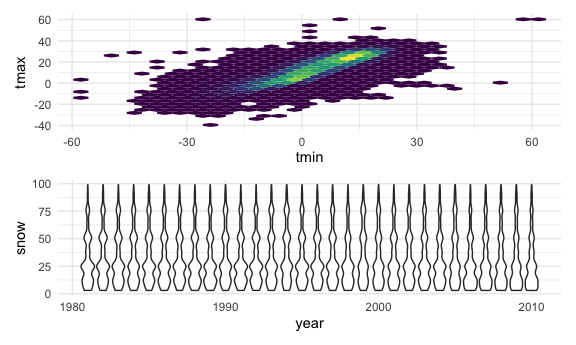
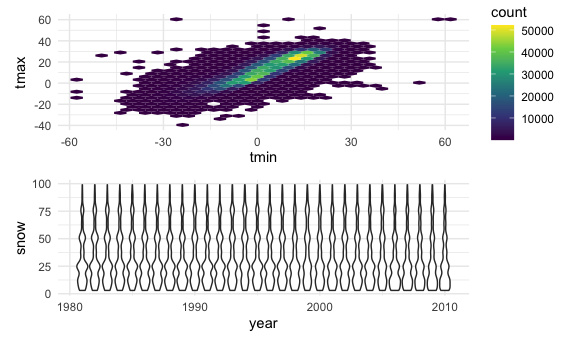
Final touches

diff --git a/p8105_hw3_gb2685.md b/p8105_hw3_gb2685.md
@@ -105,7 +105,7 @@ pivot_wider(
 
 ## Problem 2
 
-Loading the dataset
+**Loading the dataset**
 
 ``` r
 accelero_data = read_csv(file = "./Data/accel_data.csv")
@@ -119,7 +119,7 @@ accelero_data = read_csv(file = "./Data/accel_data.csv")
 
     ## See spec(...) for full column specifications.
 
-Tidying and wrangling the dataset
+**Tidying and wrangling the dataset**
 
 ``` r
 accelero_data = janitor::clean_names(accelero_data) %>%
@@ -160,9 +160,13 @@ The variables in the data are week, day\_id, day, minute\_of\_the\_day,
 activity\_count, day\_type. There are 50400 rows (observations) and 6
 columns in the dataset. The number of rows or observations signifies
 activity count for each minute of the day for each day of the week for 5
-weeks (35 days).
+weeks (35 days). The variables are described below: Week : week number
+day\_id: unique id for each day day: days in the week
+minute\_of\_the\_day: the time point of every minute of the day
+activity\_count: activity count for every minute day\_type (newly
+created): whether the day is a weekday or weekend
 
-Making a table of total activity for each day of the week
+**Making a table of total activity for each day of the week**
 
 ``` r
 accelero_data %>%
@@ -216,7 +220,7 @@ weekends for the first couple of weeks. Later his activity on weekends
 increases. However, during the Saturdays of the 4th and 5th weeks, he
 had barely any activity. They could have been rest days.
 
-Making a plot for the activity time course per day
+**Making a plot for the activity time course per day**
 
 ``` r
 accelero_data %>%
@@ -238,6 +242,8 @@ highest among all days for the later half of the day. On Sunday the
 activity is high towards the middle of the day.
 
 ## Problem 3
+
+**Loading the data from the package**
 
 ``` r
 library(p8105.datasets)
@@ -272,8 +278,12 @@ summary(ny_noaa)
     ##  Max.   :9195.0                                        
     ##  NA's   :591786
 
-The missing values should be taken into consideration before making the
-ggplots
+There are a large number of missing values in each variable as seen from
+the summary. It can cause us to miss some information that would have
+been otherwise important. The missing values should be taken into
+consideration before making the ggplots. As also seen later, the second
+most commonly observed value of snow is actually NA and this could have
+influenced how we currently see the snowfall trend.
 
 **Data cleaning and Creating separate variables for year, month, date.
 Ensuring observations are in reasonable units.**
@@ -305,7 +315,7 @@ head(ny_noaa_clean)
     ## 5 US1NYAB0001  2007    11     5    NA    NA    NA    NA    NA
     ## 6 US1NYAB0001  2007    11     6    NA    NA    NA    NA    NA
 
-**For snowfall, to find the most commonly observed values? Why?**
+**For snowfall, to find the most commonly observed values**
 
 ``` r
 ny_noaa_clean %>%
@@ -323,13 +333,13 @@ ny_noaa_clean %>%
     ## 5    51   18274
 
 The most commonly observed value is 0 mm. This is because for most of
-the time in the year, it does not snow and hence it is 0. The three most
-commonly observed values are 25 (31022), 13 (23095), 51 (18274) (when we
-don’t consider the times when there was no snowfall (0) and missing
-values (NA)).
+the time in the year, it does not snow and hence it is 0. The next three
+most commonly observed values are 25 (31022), 13 (23095), 51 (18274)
+(when we don’t consider the times when there was no snowfall (0) and
+missing values (NA)).
 
-Creating plot showing the average max temperature in January and in July
-in each station across years
+**Creating plot showing the average max temperature in January and in
+July in each station across years.**
 
 ``` r
 p3_plot1 = ny_noaa_clean %>%
@@ -343,7 +353,8 @@ p3_plot1 = ny_noaa_clean %>%
 ``` r
   ggplot(p3_plot1,aes(x = year, y = mean_tmax)) +
   geom_point(aes(colour = id),alpha = 0.5) + 
-  geom_smooth() +facet_grid(. ~month)
+  geom_smooth() + 
+  facet_grid(. ~month) 
 ```
 
     ## `geom_smooth()` using method = 'gam' and formula 'y ~ s(x, bs = "cs")'
@@ -382,16 +393,28 @@ showing the distribution of snowfall values greater than 0 and less than
 100 separately by year. Used patchwork**
 
 ``` r
-library (patchwork)
-plot1 = ggplot(ny_noaa_clean, aes(x=tmin,y=tmax) ) + geom_hex()
+plot1 = ggplot(ny_noaa_clean, aes(x=tmin,y=tmax) ) + 
+        geom_hex() +
+        theme(legend.position = "right")
 
 plot2 = ny_noaa_clean %>%
         filter(snow>0, snow<100) %>%
-        ggplot( aes(x = year, y = snow)) + geom_violin(aes(group = year))
+        ggplot( aes(x = year, y = snow)) + 
+        geom_violin(aes(group = year)) 
 
-plot1 / plot2
+patch = plot1 / plot2
+
+patch
 ```
 
     ## Warning: Removed 1136276 rows containing non-finite values (stat_binhex).
 
 <img src="p8105_hw3_gb2685_files/figure-gfm/unnamed-chunk-15-1.png" width="90%" />
+
+``` r
+ggsave("patch_plots.png")
+```
+
+    ## Saving 6 x 3.6 in image
+
+    ## Warning: Removed 1136276 rows containing non-finite values (stat_binhex).
